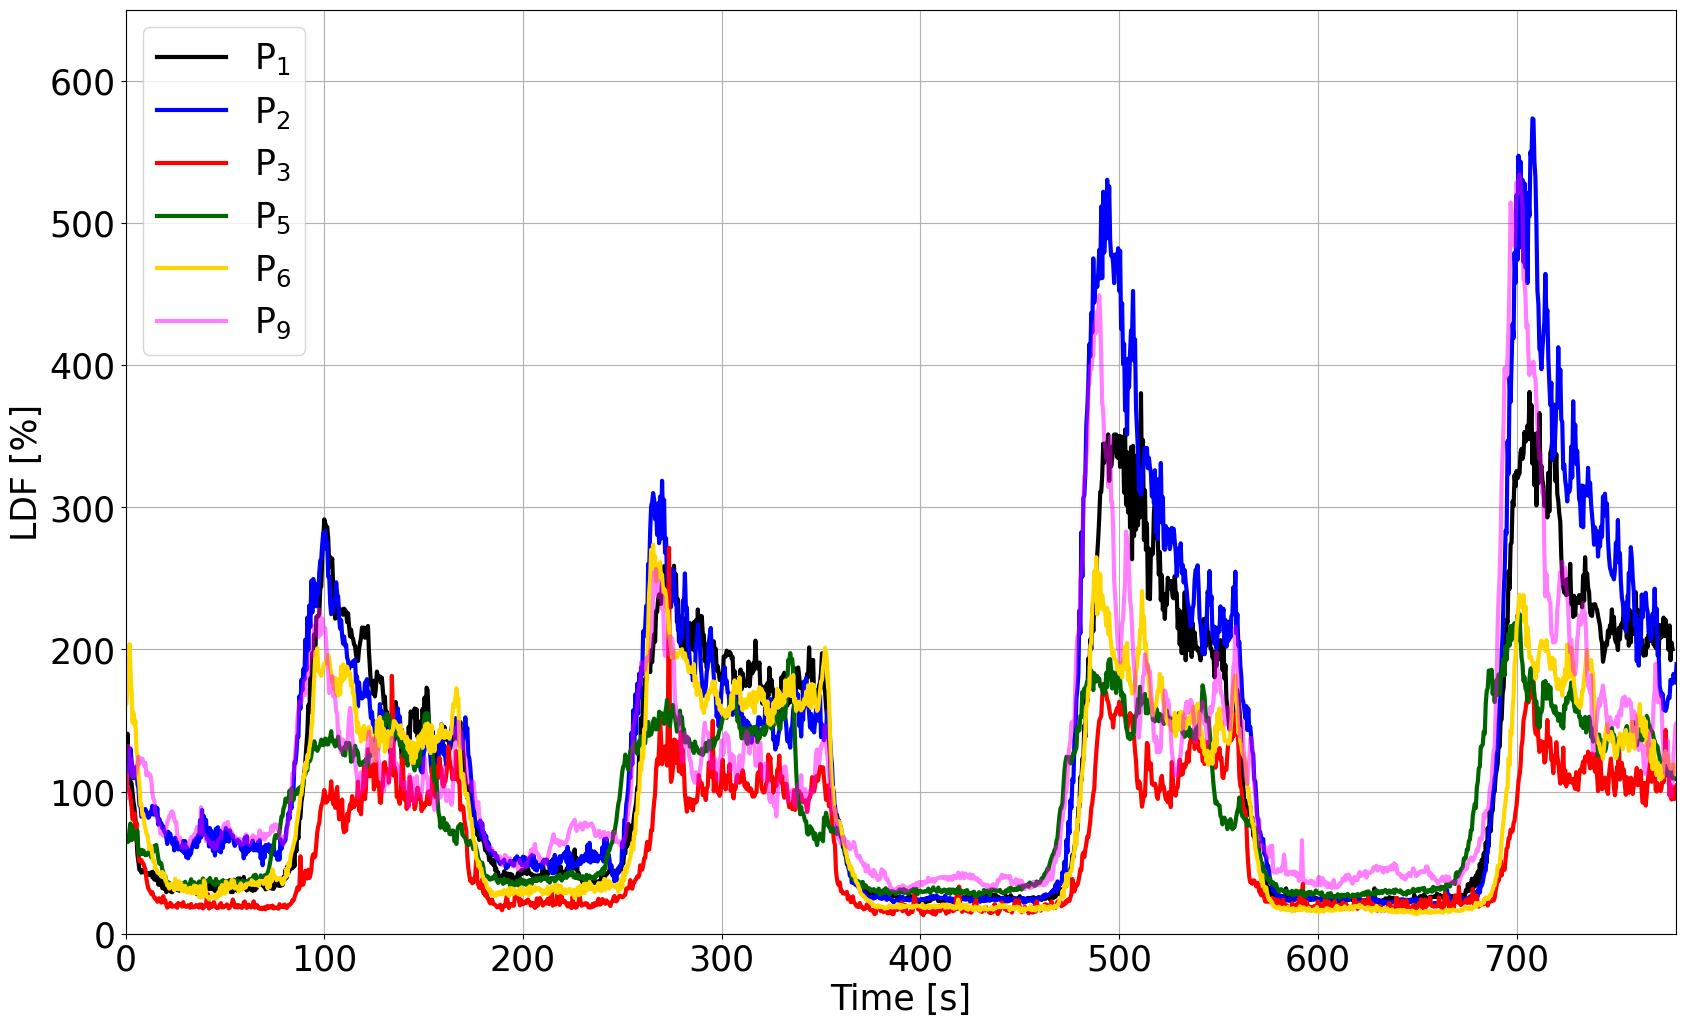
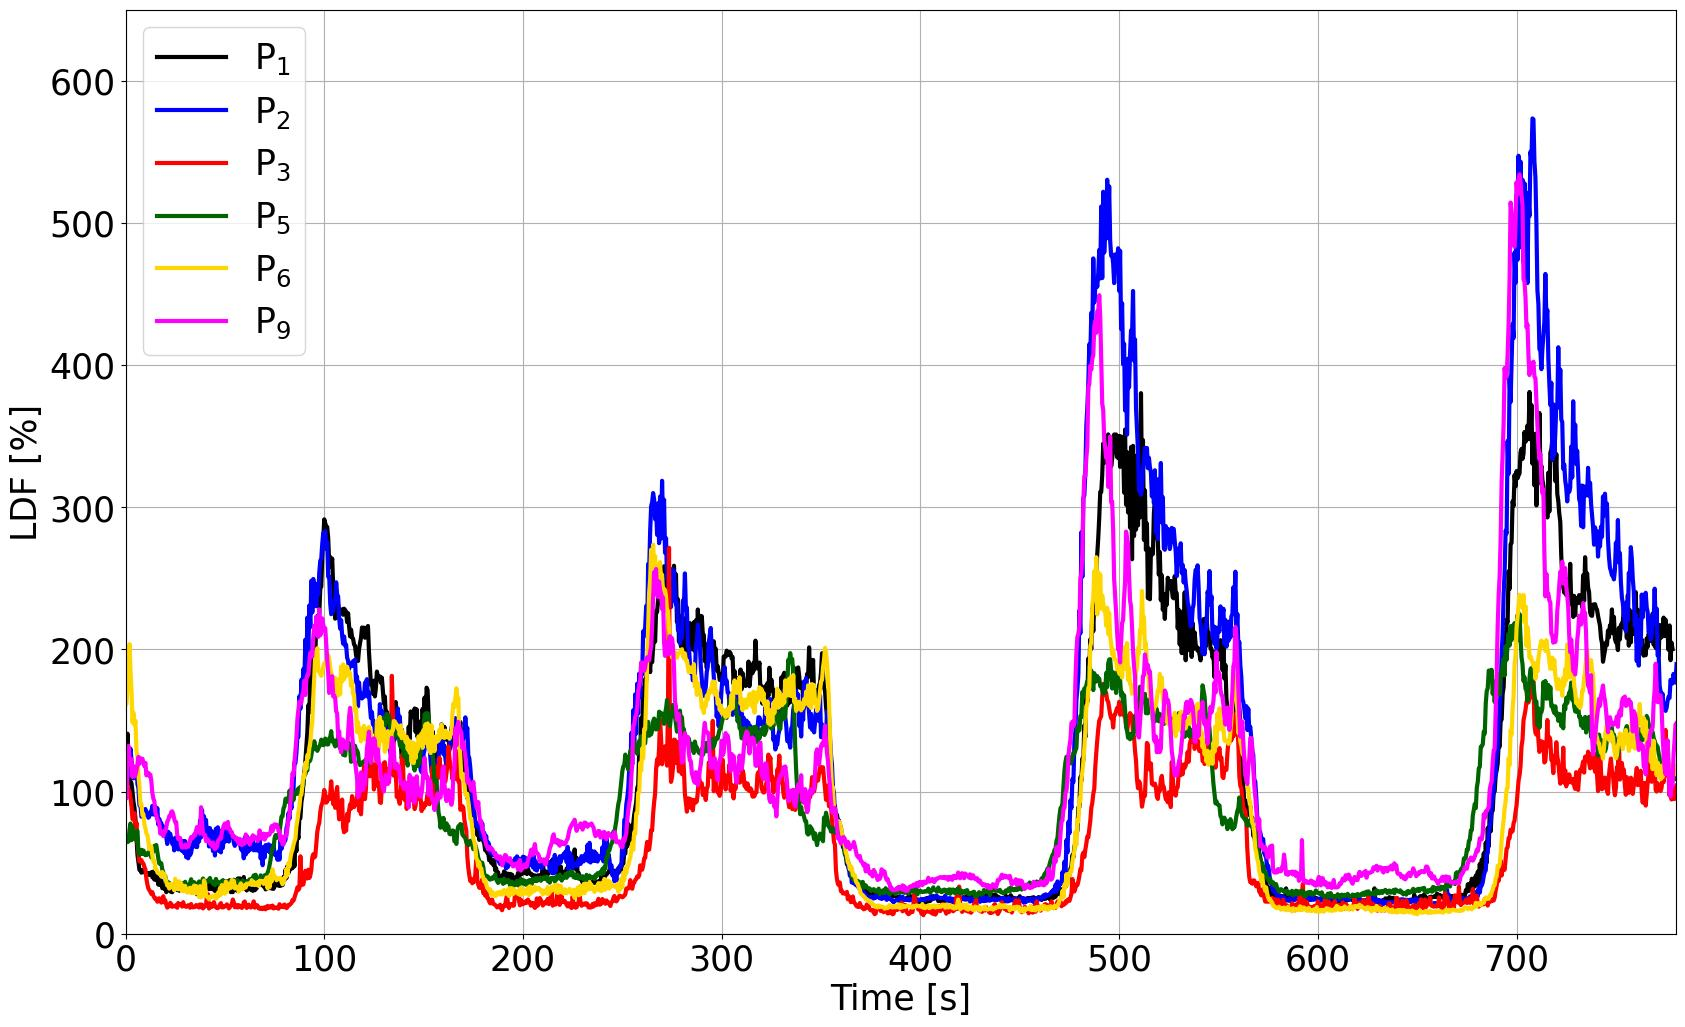
update

diff --git a/Experimental_Data/LDF_post_treatment.py b/Experimental_Data/LDF_post_treatment.py
@@ -3243,7 +3243,7 @@ plt.plot(ASE_PREVAIL_LBM_009["j2_2"]["temps (s)"][index_22_ASE-110:index_22_ASE+
 plt.plot(MDI_PREVAIL_LBM_026["j1_2"]["temps (s)"][index_12_MDI-110:index_12_MDI+length_list_MDI], MDI_mean_signal_raw, color='red', label="P$_3$", alpha=1, linewidth=3)
 plt.plot(MMA_PREVAIL_LBM_028["j1_2"]["temps (s)"][index_12_CBO-110:index_12_CBO+length_list_CBO], CBO_mean_signal_raw, color='darkgreen', label="P$_5$", alpha=1, linewidth=3)
 plt.plot(PLA_PREVAIL_LBM_030["j1_2"]["temps (s)"][index_12_PLA-110:index_12_PLA+length_list_PLA], PLA_mean_signal_raw, color='gold', label="P$_6$", alpha=1, linewidth=3)
-plt.plot(ALA_PREVAIL_LBM_033["j1_2"]["temps (s)"][index_12_ALA-110:index_12_ALA+length_list_ALA], ALA_mean_signal_raw, color='fuchsia', label="P$_9$", alpha=0.5, linewidth=3)
+plt.plot(ALA_PREVAIL_LBM_033["j1_2"]["temps (s)"][index_12_ALA-110:index_12_ALA+length_list_ALA], ALA_mean_signal_raw, color='fuchsia', label="P$_9$", alpha=1, linewidth=3)
 plt.legend()
 plt.xlim([-60, 780])
 plt.ylim([0, 250])
@@ -3279,7 +3279,7 @@ plt.plot(ASE_PREVAIL_LBM_009["j2_2"]["temps (s)"][index_22_ASE:index_22_ASE+leng
 plt.plot(MDI_PREVAIL_LBM_026["j1_2"]["temps (s)"][index_12_MDI:index_12_MDI+length_list_MDI], MDI_mean_signal, color='red', label="P$_3$", alpha=1, linewidth=3)
 plt.plot(MMA_PREVAIL_LBM_028["j1_2"]["temps (s)"][index_12_CBO:index_12_CBO+length_list_CBO], CBO_mean_signal, color='darkgreen', label="P$_5$", alpha=1, linewidth=3)
 plt.plot(PLA_PREVAIL_LBM_030["j1_2"]["temps (s)"][index_12_PLA:index_12_PLA+length_list_PLA], PLA_mean_signal, color='gold', label="P$_6$", alpha=1, linewidth=3)
-plt.plot(ALA_PREVAIL_LBM_033["j1_2"]["temps (s)"][index_12_ALA:index_12_ALA+length_list_ALA], ALA_mean_signal, color='fuchsia', label="P$_9$", alpha=0.5, linewidth=3)
+plt.plot(ALA_PREVAIL_LBM_033["j1_2"]["temps (s)"][index_12_ALA:index_12_ALA+length_list_ALA], ALA_mean_signal, color='fuchsia', label="P$_9$", alpha=1, linewidth=3)
 plt.legend()
 plt.xlim([0, 780])
 plt.ylim([0, 650])
